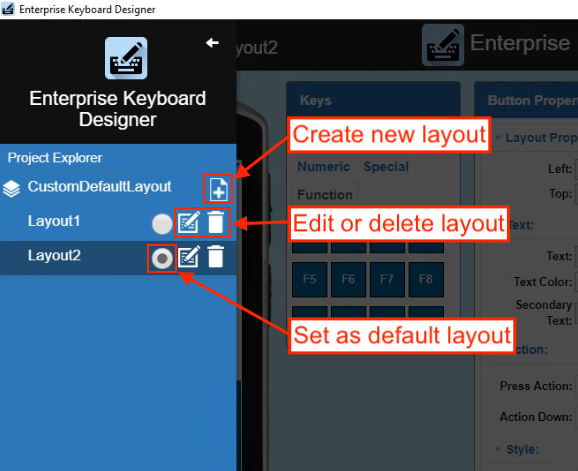
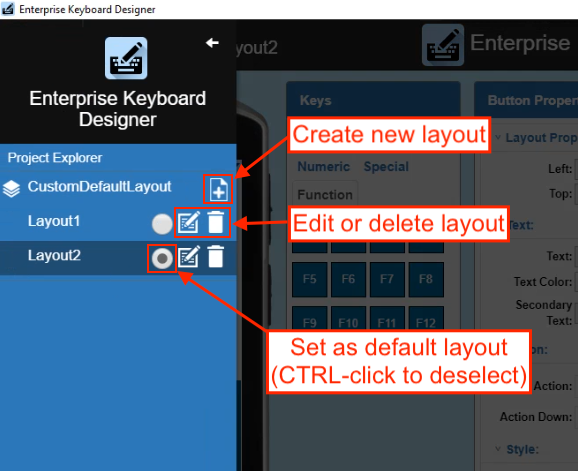
[TUT-35988] EKD 1.4 About-page, pre-defined section updates

Changed region(s): [[0.3737, 0.6242, 0.9343, 0.862], [0.3114, 0.5648, 0.3737, 0.6242]]

diff --git a/src/ekd/1-4/guide/about/index.md b/src/ekd/1-4/guide/about/index.md
@@ -48,7 +48,7 @@ _Sample layouts made with Enterprise Keyboard Designer. Click image to enlarge, 
 
 * **<u>[Pre-defined Responses](../usage/#predefinedresponses)</u>** allows a list of "canned" text messages to be entered in EKD and displayed in a drop-down on devices running Enterprise Keyboard to simplify, quicken and standardize responses to common questions or situations. **Requires EKB 2.4 or later**. 
 
-* **<u>[Set Default Layout]()</u>** now allows selection of a custom keyboard layout to be used as the default layout in the device, to appear whenever any input field receives focus. **Requires EKB 3.4 or higher**. 
+* **<u>[Set Default Layout](../usage/#iicreatelayouts)</u>** now allows selection of a custom keyboard layout to be used as the default layout in the device, to appear whenever any input field receives focus. **Requires EKB 3.4 or higher**. 
 
 * **<u>A new Home button</u>** simplifies project start-up and importing of saved projects.  
 
